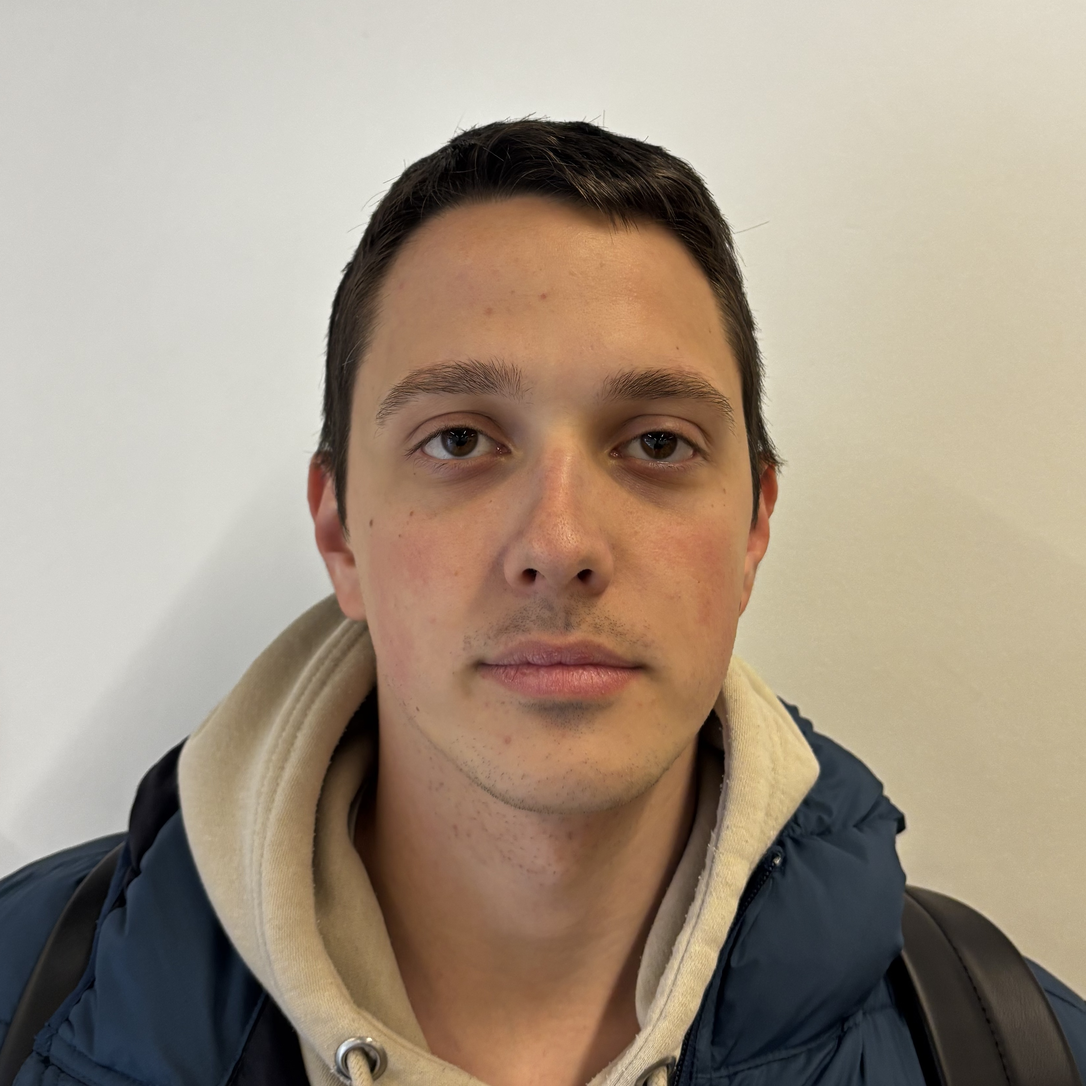
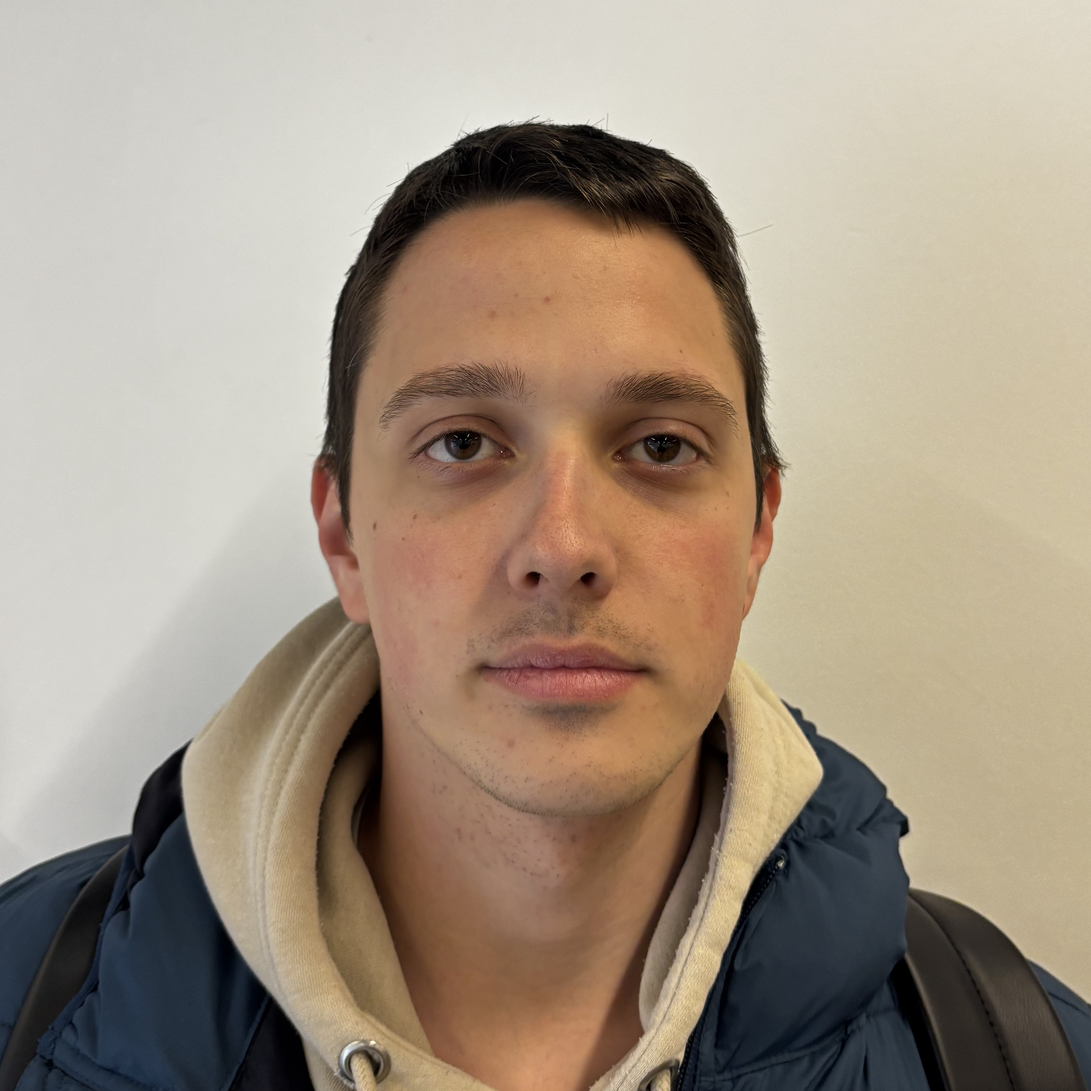
Update enrolled images and identification logic

diff --git a/vision_detection/verification.py b/vision_detection/verification.py
@@ -1,8 +1,9 @@
 import cv2
 import numpy as np
+import tempfile
+import os
 
-# HOG descriptor configured for square 64x64 inputs. This is far more robust
-# than raw pixels for distinguishing people.
+# HOG descriptor configured for square 64x64 inputs (fallback if deepface fails)
 _HOG = cv2.HOGDescriptor(
     _winSize=(64, 64),
     _blockSize=(16, 16),
@@ -11,18 +12,23 @@ _HOG = cv2.HOGDescriptor(
     _nbins=9,
 )
 
+# Try to use deepface (ArcFace) for better discrimination
+# Fallback to HOG if deepface is not available
+try:
+    from deepface import DeepFace
+    EMBEDDING_MODEL = "ArcFace"
+    print("[Embedding] Using ArcFace (DeepFace) for embeddings - best discrimination")
+except ImportError:
+    print("[Embedding] ⚠ deepface not installed, falling back to HOG")
+    EMBEDDING_MODEL = "HOG"
+
 
 def get_embedding_from_aligned_face(aligned_face_bgr: np.ndarray) -> np.ndarray | None:
     """
-    Hand-crafted HOG embedding (no deep learning) that is more stable than
-    raw pixels and less sensitive to background.
-
-    Steps:
-      1. Convert to grayscale
-      2. Detect and crop the largest face region (fallback to full image)
-      3. Resize to 64x64
-      4. Compute HOG descriptor
-      5. L2-normalize feature vector
+    Get face embedding using FaceNet (via deepface) if available, otherwise HOG.
+    
+    FaceNet provides 128-dimensional embeddings that are highly discriminative
+    for distinguishing between different people.
 
     Returns:
         1D float32 numpy array, or None if image is invalid.
@@ -32,24 +38,41 @@ def get_embedding_from_aligned_face(aligned_face_bgr: np.ndarray) -> np.ndarray 
         return None
 
     try:
-        # 1. BGR -> Gray
-        gray = cv2.cvtColor(aligned_face_bgr, cv2.COLOR_BGR2GRAY)
-
-        # 2. Resize to fixed size (use the aligned crop directly to avoid double-cropping jitter)
-        resized = cv2.resize(gray, (64, 64))  # shape (64, 64)
-
-        # 3. HOG descriptor -> vector
-        hog_vec = _HOG.compute(resized)
-        if hog_vec is None:
-            return None
-
-        vec = hog_vec.reshape(-1).astype("float32")
-
-        # 4. Normalize (so brightness changes don't explode distances)
-        norm = np.linalg.norm(vec) + 1e-8
-        vec = vec / norm
-
-        return vec
+        if EMBEDDING_MODEL == "FaceNet":
+            # Use deepface with FaceNet backend
+            # deepface.represent() requires a file path, so write to temp file
+            with tempfile.NamedTemporaryFile(suffix=".jpg", delete=False) as tmp:
+                tmp_path = tmp.name
+                cv2.imwrite(tmp_path, aligned_face_bgr)
+            
+            try:
+                embedding_obj = DeepFace.represent(
+                    img_path=tmp_path,
+                    model_name="ArcFace",
+                    enforce_detection=False,
+                )
+                if embedding_obj and len(embedding_obj) > 0:
+                    vec = np.array(embedding_obj[0]["embedding"], dtype="float32")
+                    # Normalize for consistency
+                    norm = np.linalg.norm(vec) + 1e-8
+                    vec = vec / norm
+                    return vec
+                return None
+            finally:
+                # Clean up temp file
+                if os.path.exists(tmp_path):
+                    os.remove(tmp_path)
+        else:
+            # Fallback to HOG
+            gray = cv2.cvtColor(aligned_face_bgr, cv2.COLOR_BGR2GRAY)
+            resized = cv2.resize(gray, (64, 64))
+            hog_vec = _HOG.compute(resized)
+            if hog_vec is None:
+                return None
+            vec = hog_vec.reshape(-1).astype("float32")
+            norm = np.linalg.norm(vec) + 1e-8
+            vec = vec / norm
+            return vec
 
     except Exception as e:
         print(f"[get_embedding_from_aligned_face] Error: {e}")

diff --git a/vision_detection/face_alignment.py b/vision_detection/face_alignment.py
@@ -38,33 +38,63 @@ def rotate_image_about_point(image, center_xy: Tuple[float, float], angle_deg: f
 def align_and_crop(
     frame_bgr,
     coords: List[Tuple[int, int]],
-    crop_size: int = 224,
+    crop_size: int = 320,
     save_debug_path: Optional[str] = None,
+    bbox_scale: float = 1.6,
+    align: bool = True,
 ):
     #Finding centers of eyes
     (lx, ly), (rx, ry) = compute_eye_centers(coords)
 
-    #We are calculating diference in height and in horizontal pose between two centers
-    #Than we need to calcuate angle between eyes and we do it by using their diferences
-    dy, dx = (ry - ly), (rx - lx)
-    angle_deg = math.degrees(math.atan2(dy, dx)) 
+    rotated = frame_bgr
+    if align:
+        #We are calculating diference in height and in horizontal pose between two centers
+        #Than we need to calcuate angle between eyes and we do it by using their diferences
+        dy, dx = (ry - ly), (rx - lx)
+        angle_deg = math.degrees(math.atan2(dy, dx)) 
 
-    #Now we are trying to find center between two eyes
-    #And then we roatet aorund it
-    cx, cy = (lx + rx) * 0.5, (ly + ry) * 0.5
-    rotated = rotate_image_about_point(frame_bgr, (cx, cy), angle_deg)
+        #Now we are trying to find center between two eyes
+        #And then we roatet aorund it
+        cx, cy = (lx + rx) * 0.5, (ly + ry) * 0.5
+        rotated = rotate_image_about_point(frame_bgr, (cx, cy), angle_deg)
 
-    #After aligment we need to cropp the face!
-    #Center will againg be the center between eyes
-    #We need to find a top left pixel of cropp space and it will be x1, y1 and bottom right and it will be x2, y2
-    half = crop_size // 2
-    x1, y1 = int(cx) - half, int(cy) - half
-    x2, y2 = x1 + crop_size, y1 + crop_size
+    # Use the face bbox as the crop center so we keep the whole head, not only the eyes.
+    xs = [x for x, _ in coords]
+    ys = [y for _, y in coords]
+    min_x, max_x = min(xs), max(xs)
+    min_y, max_y = min(ys), max(ys)
+    bbox_w = max_x - min_x
+    bbox_h = max_y - min_y
+    face_size = max(bbox_w, bbox_h)
 
-    #We can't allow to corpp something that dosen't exist or that is outisde of camera
+    # Expand the box to keep forehead/chin and a bit of background for stability.
+    side = max(crop_size, int(face_size * bbox_scale))
+    half = side // 2
+    center_x = (min_x + max_x) * 0.5
+    center_y = (min_y + max_y) * 0.5
+
+    x1, y1 = int(center_x) - half, int(center_y) - half
+    x2, y2 = x1 + side, y1 + side
+
+    # If the crop falls outside the frame, pad the image instead of failing.
     h, w = rotated.shape[:2]        #We are taking only height and width of rotated picture (if we have put :3 we would also take color)
-    if x1 < 0 or y1 < 0 or x2 > w or y2 > h:
-        return None
+    pad_left = max(0, -x1)
+    pad_top = max(0, -y1)
+    pad_right = max(0, x2 - w)
+    pad_bottom = max(0, y2 - h)
+    if pad_left or pad_top or pad_right or pad_bottom:
+        rotated = cv2.copyMakeBorder(
+            rotated,
+            pad_top,
+            pad_bottom,
+            pad_left,
+            pad_right,
+            borderType=cv2.BORDER_REFLECT_101,
+        )
+        x1 += pad_left
+        x2 += pad_left
+        y1 += pad_top
+        y2 += pad_top
 
     #Finaly we are taking cropped picture
     #We used .copy in order to not lose original picture (just in case Lorenzo and Konstantions want to use it later)
